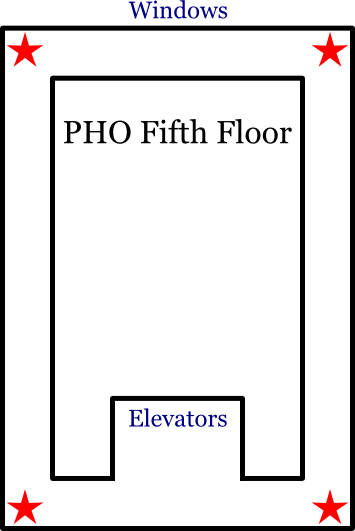
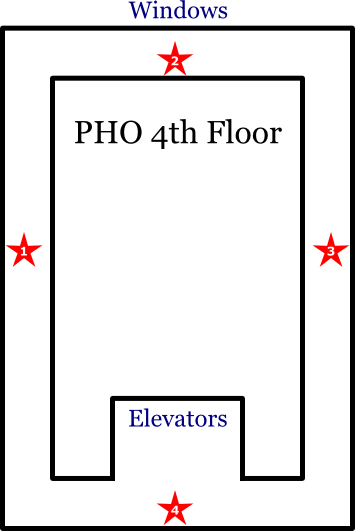
Updated map with new beacon positions, test server

diff --git a/Ch08/mapTestServer.js b/Ch08/mapTestServer.js
@@ -1,0 +1,59 @@
+// Required modules
+var express=require('express');
+var app = express();
+var http = require('http').Server(app);
+var io = require('socket.io')(http); 
+app.use(express.static('src'));
+
+var bin = [ 0,  1,  2,  3,  4,  5,  6,  7,  8,  9,  10,
+  11,  12,  13,  14,  15,  16,  17,  18,  19,  20,
+  21,  22,  23,  24,  25,  26,  27,  28,  29,  30,
+  31,  32,  33,  34,  35,  36,  37,  38,  39,  40,
+  41,  42,  43];
+var binmap= {};
+bin.forEach(function(entry) { // maps bin to x,y location for website
+    var x,y;
+    if (entry < 19)
+    { x = 7;
+      y = entry+1; }
+    else if (entry < 22)
+    { x = 7 - 1.5*(entry-18);
+      y = 19; }
+    else if (entry < 41)
+    { x = 1;
+      y = 41 - entry; }
+    else
+    { x = 1+ 1.5 * (entry - 40)
+      y = 1; }
+    binmap[entry] = [x,y];
+});
+
+var binPredicted = 0;
+
+function updateWebsite(){
+	 binPredicted = (binPredicted+1)%44;
+	    console.log(binPredicted);
+	    var location = binmap[binPredicted];
+		io.emit('data',{x:location[0], y:location[1]}); //send data to website
+}
+setInterval(updateWebsite, 1000);
+
+// connect with website, relay input to arduino
+io.on('connection', function(socket){
+    console.log('a user connected');
+    socket.on('update',function(msg){
+	console.log(msg);
+	if ("01wadz".includes(msg)) {	// input validation
+//	    arduinoSerial.write(msg);
+	}
+    });
+});
+
+http.listen(3000, function(){
+    console.log('listening on *:3000');
+});
+
+app.get('/', function(req, res){
+    res.sendFile('index.html' , { root : __dirname});
+});
+
